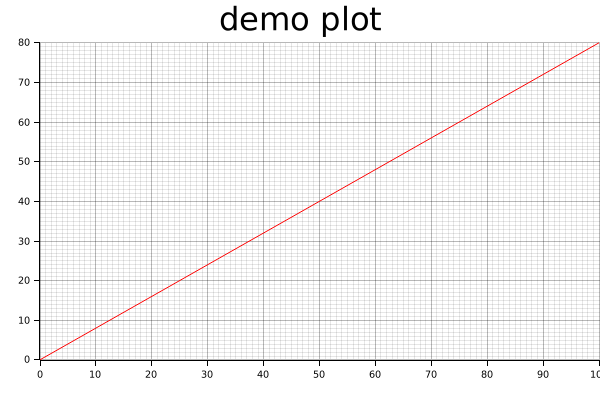
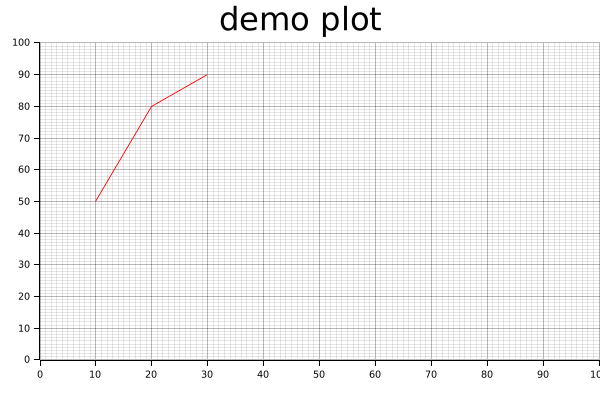
finish import x and y values

Changed region(s): [[0.03, 0.12, 1.0, 0.9], [0.99, 0.09, 1.0, 0.12], [0.0, 0.09, 0.03, 0.12]]

diff --git a/src/main.rs b/src/main.rs
@@ -29,9 +29,7 @@ enum Commands {
 
 
 fn main() {
-    let x = vec![0,100];
-    let y = vec![0,100];
-
+    let xy = datavisualizer::parsestringtonumber();
     let args = Cli::parse();
     match args.command {
         Some(Commands::Plot {
@@ -42,23 +40,17 @@ fn main() {
             y_min,
             y_max,
         }) => {
-            drawline(x, y, &filename, &caption, x_min, x_max, y_min, y_max);
+            drawline(xy, &filename, &caption, x_min, x_max, y_min, y_max);
          
         }
         None => println!("No subcommand was used"),
     }
-
+    
 }
 
-fn combine_vectors(a: Vec<i32>, b: Vec<i32>) -> Vec<(i32, i32)> {
-    let mut result = vec![];
-    for (a_element, b_element) in a.iter().zip(b.iter()) {
-        result.push((*a_element, *b_element));
-    }
-    result
-}
 
-fn drawline(x: Vec<i32>, y: Vec<i32>, file_name: &str, caption: &str, x_min: i32, x_max: i32, y_min: i32, y_max: i32) {
+
+fn drawline(xy: Vec<(i32, i32)>, file_name: &str, caption: &str, x_min: i32, x_max: i32, y_min: i32, y_max: i32) {
   let root_area = BitMapBackend::new(file_name, (600, 400))
     .into_drawing_area();
   root_area.fill(&WHITE).unwrap();
@@ -73,6 +65,6 @@ fn drawline(x: Vec<i32>, y: Vec<i32>, file_name: &str, caption: &str, x_min: i32
   ctx.configure_mesh().draw().unwrap();
 
   ctx.draw_series(
-    LineSeries::new(combine_vectors(x,y), &RED)
+    LineSeries::new(xy, RED)
   ).unwrap();
 }

diff --git a/src/lib.rs b/src/lib.rs
@@ -1,0 +1,31 @@
+use std::{fs::File, io::Read};
+
+pub fn parsestringtonumber() -> Vec<(i32, i32)>{
+    let mut file = File::open("data.txt").expect("Unable to open file");
+    // i want to read the numbers in data.txt and store them in a vector
+    let mut contents = String::new();
+    file.read_to_string(&mut contents).expect("Unable to read file");
+    let mut x = vec![];
+    let mut y = vec![];
+    let mut lines = contents.lines();
+    let x_line = lines.next().unwrap();
+    let y_line = lines.next().unwrap();
+    for x_str in x_line.split_whitespace() {
+        let x_num = x_str.parse::<i32>().unwrap();
+        x.push(x_num);
+    }
+    for y_str in y_line.split_whitespace() {
+        let y_num = y_str.parse::<i32>().unwrap();
+        y.push(y_num);
+    }
+    combine_vectors(x, y)
+}
+
+
+fn combine_vectors(a: Vec<i32>, b: Vec<i32>) -> Vec<(i32, i32)> {
+    let mut result = vec![];
+    for (a_element, b_element) in a.iter().zip(b.iter()) {
+        result.push((*a_element, *b_element));
+    }
+    result
+}
